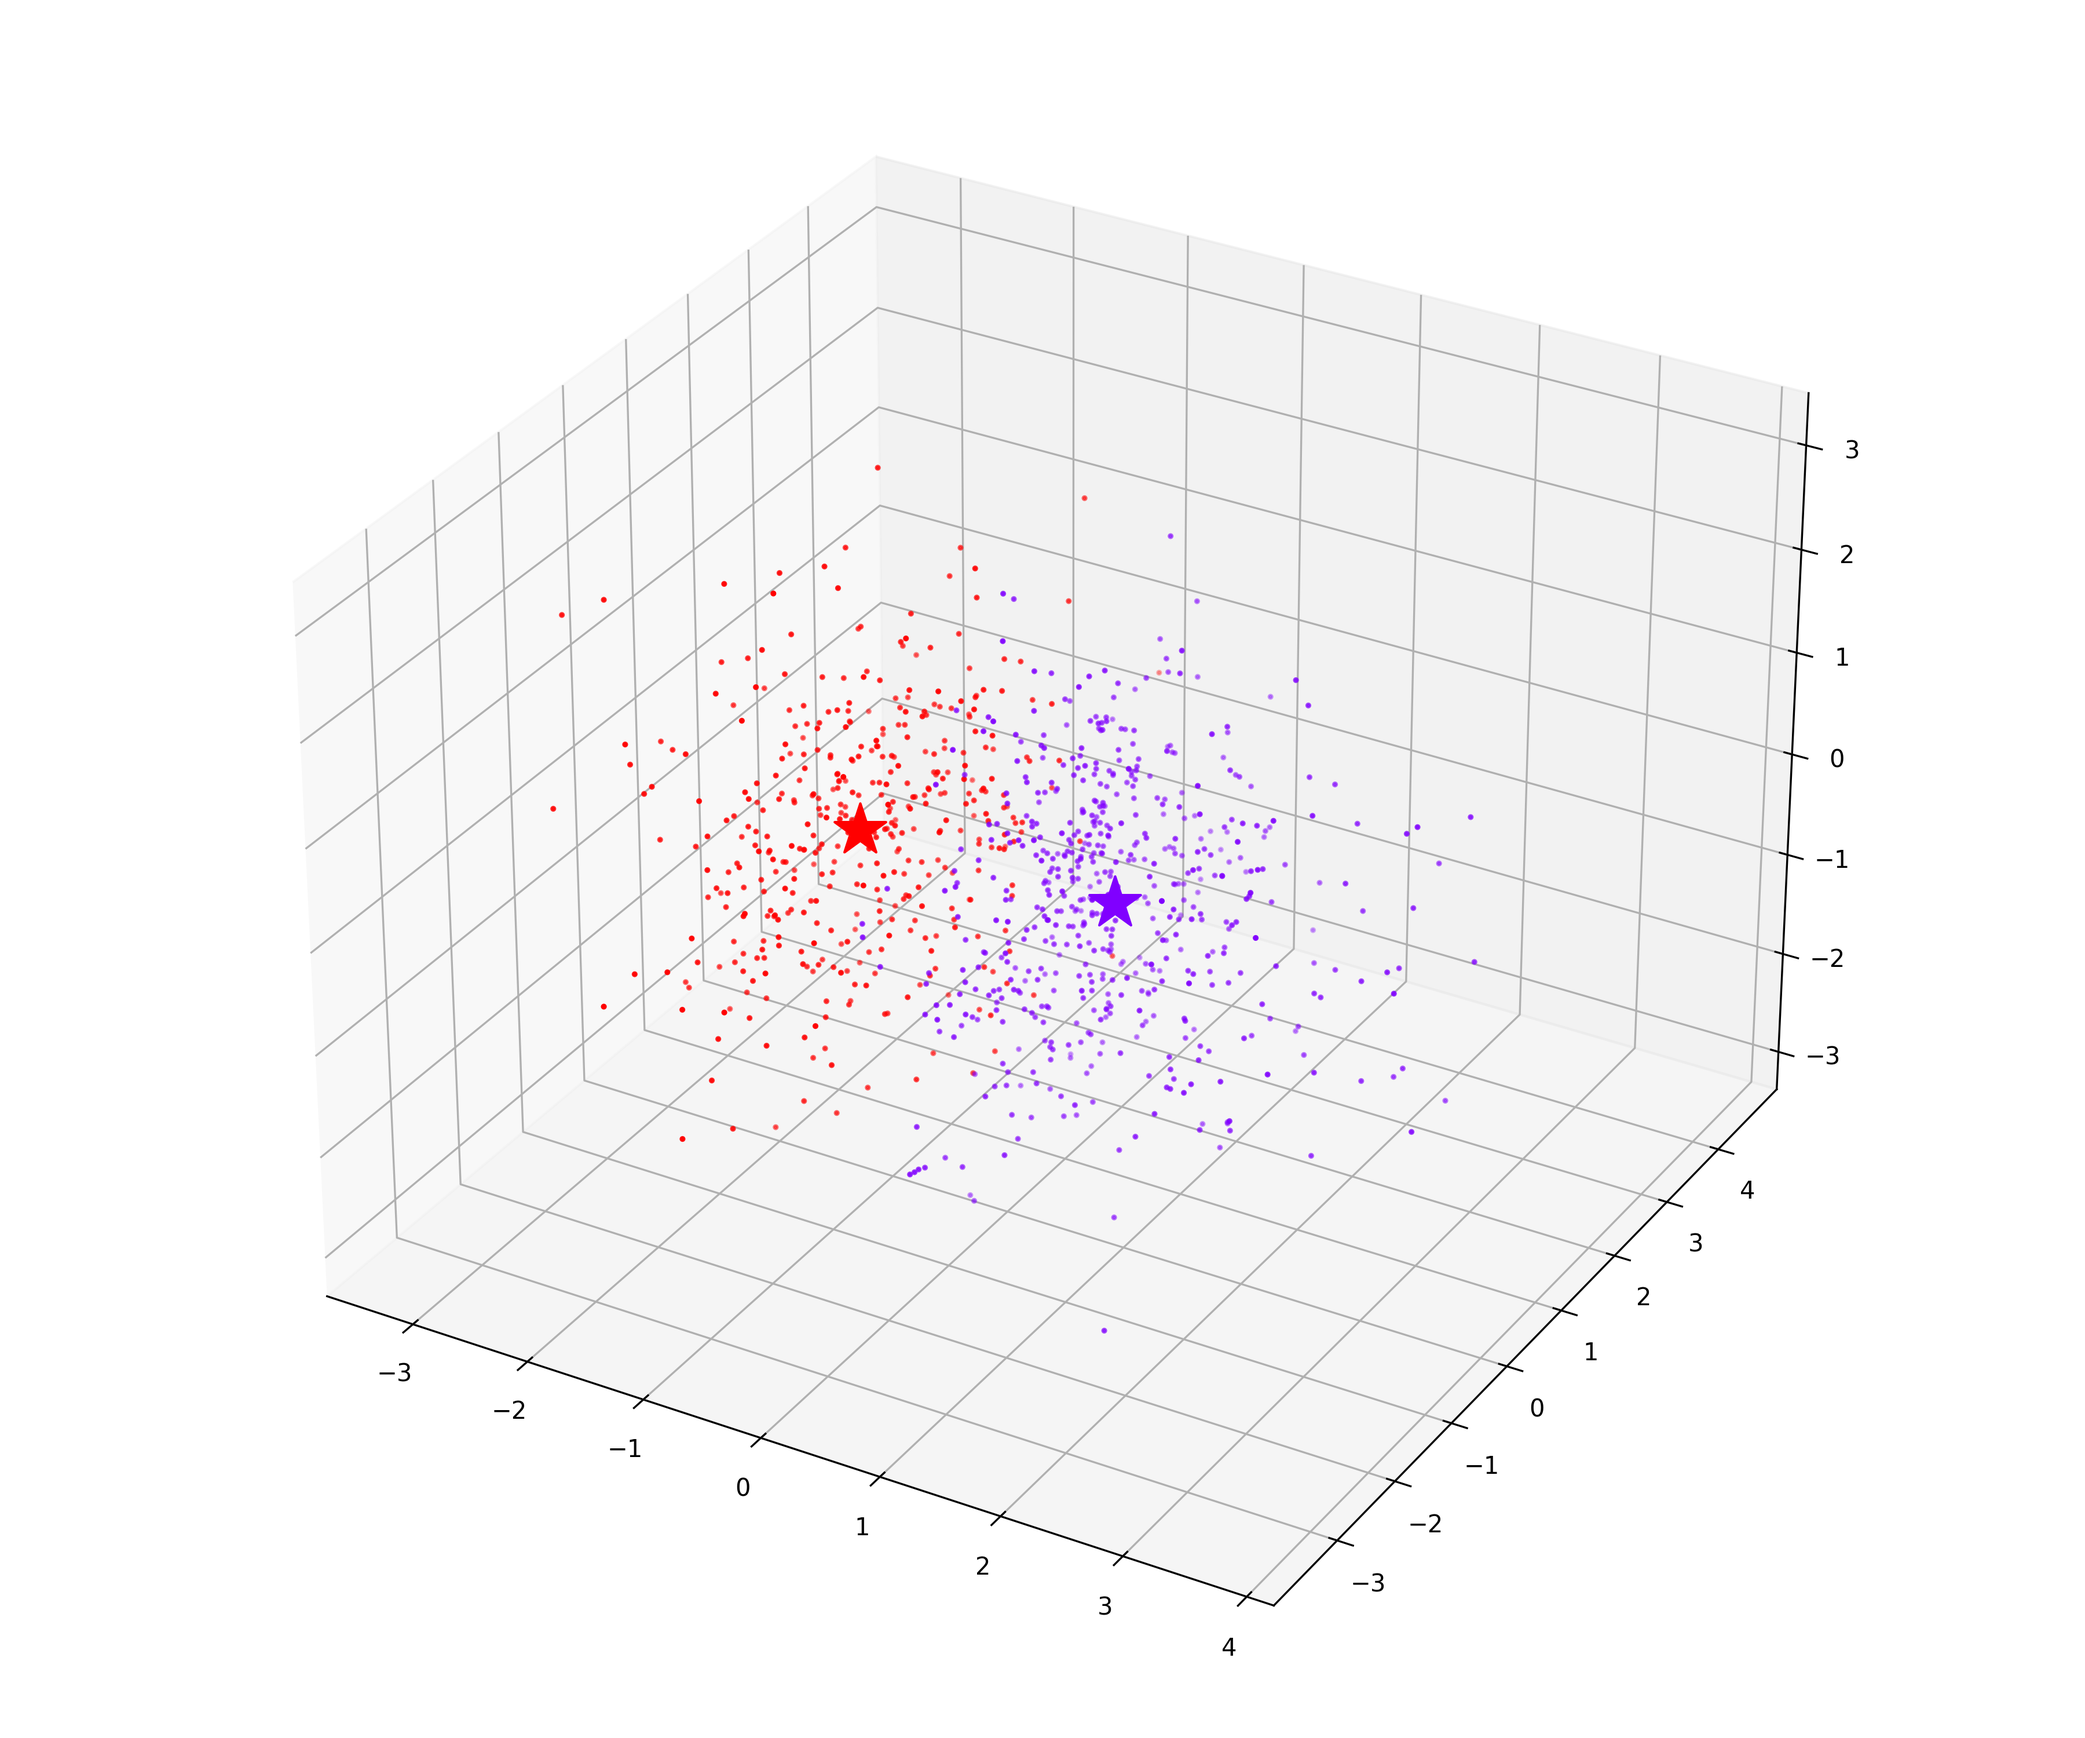
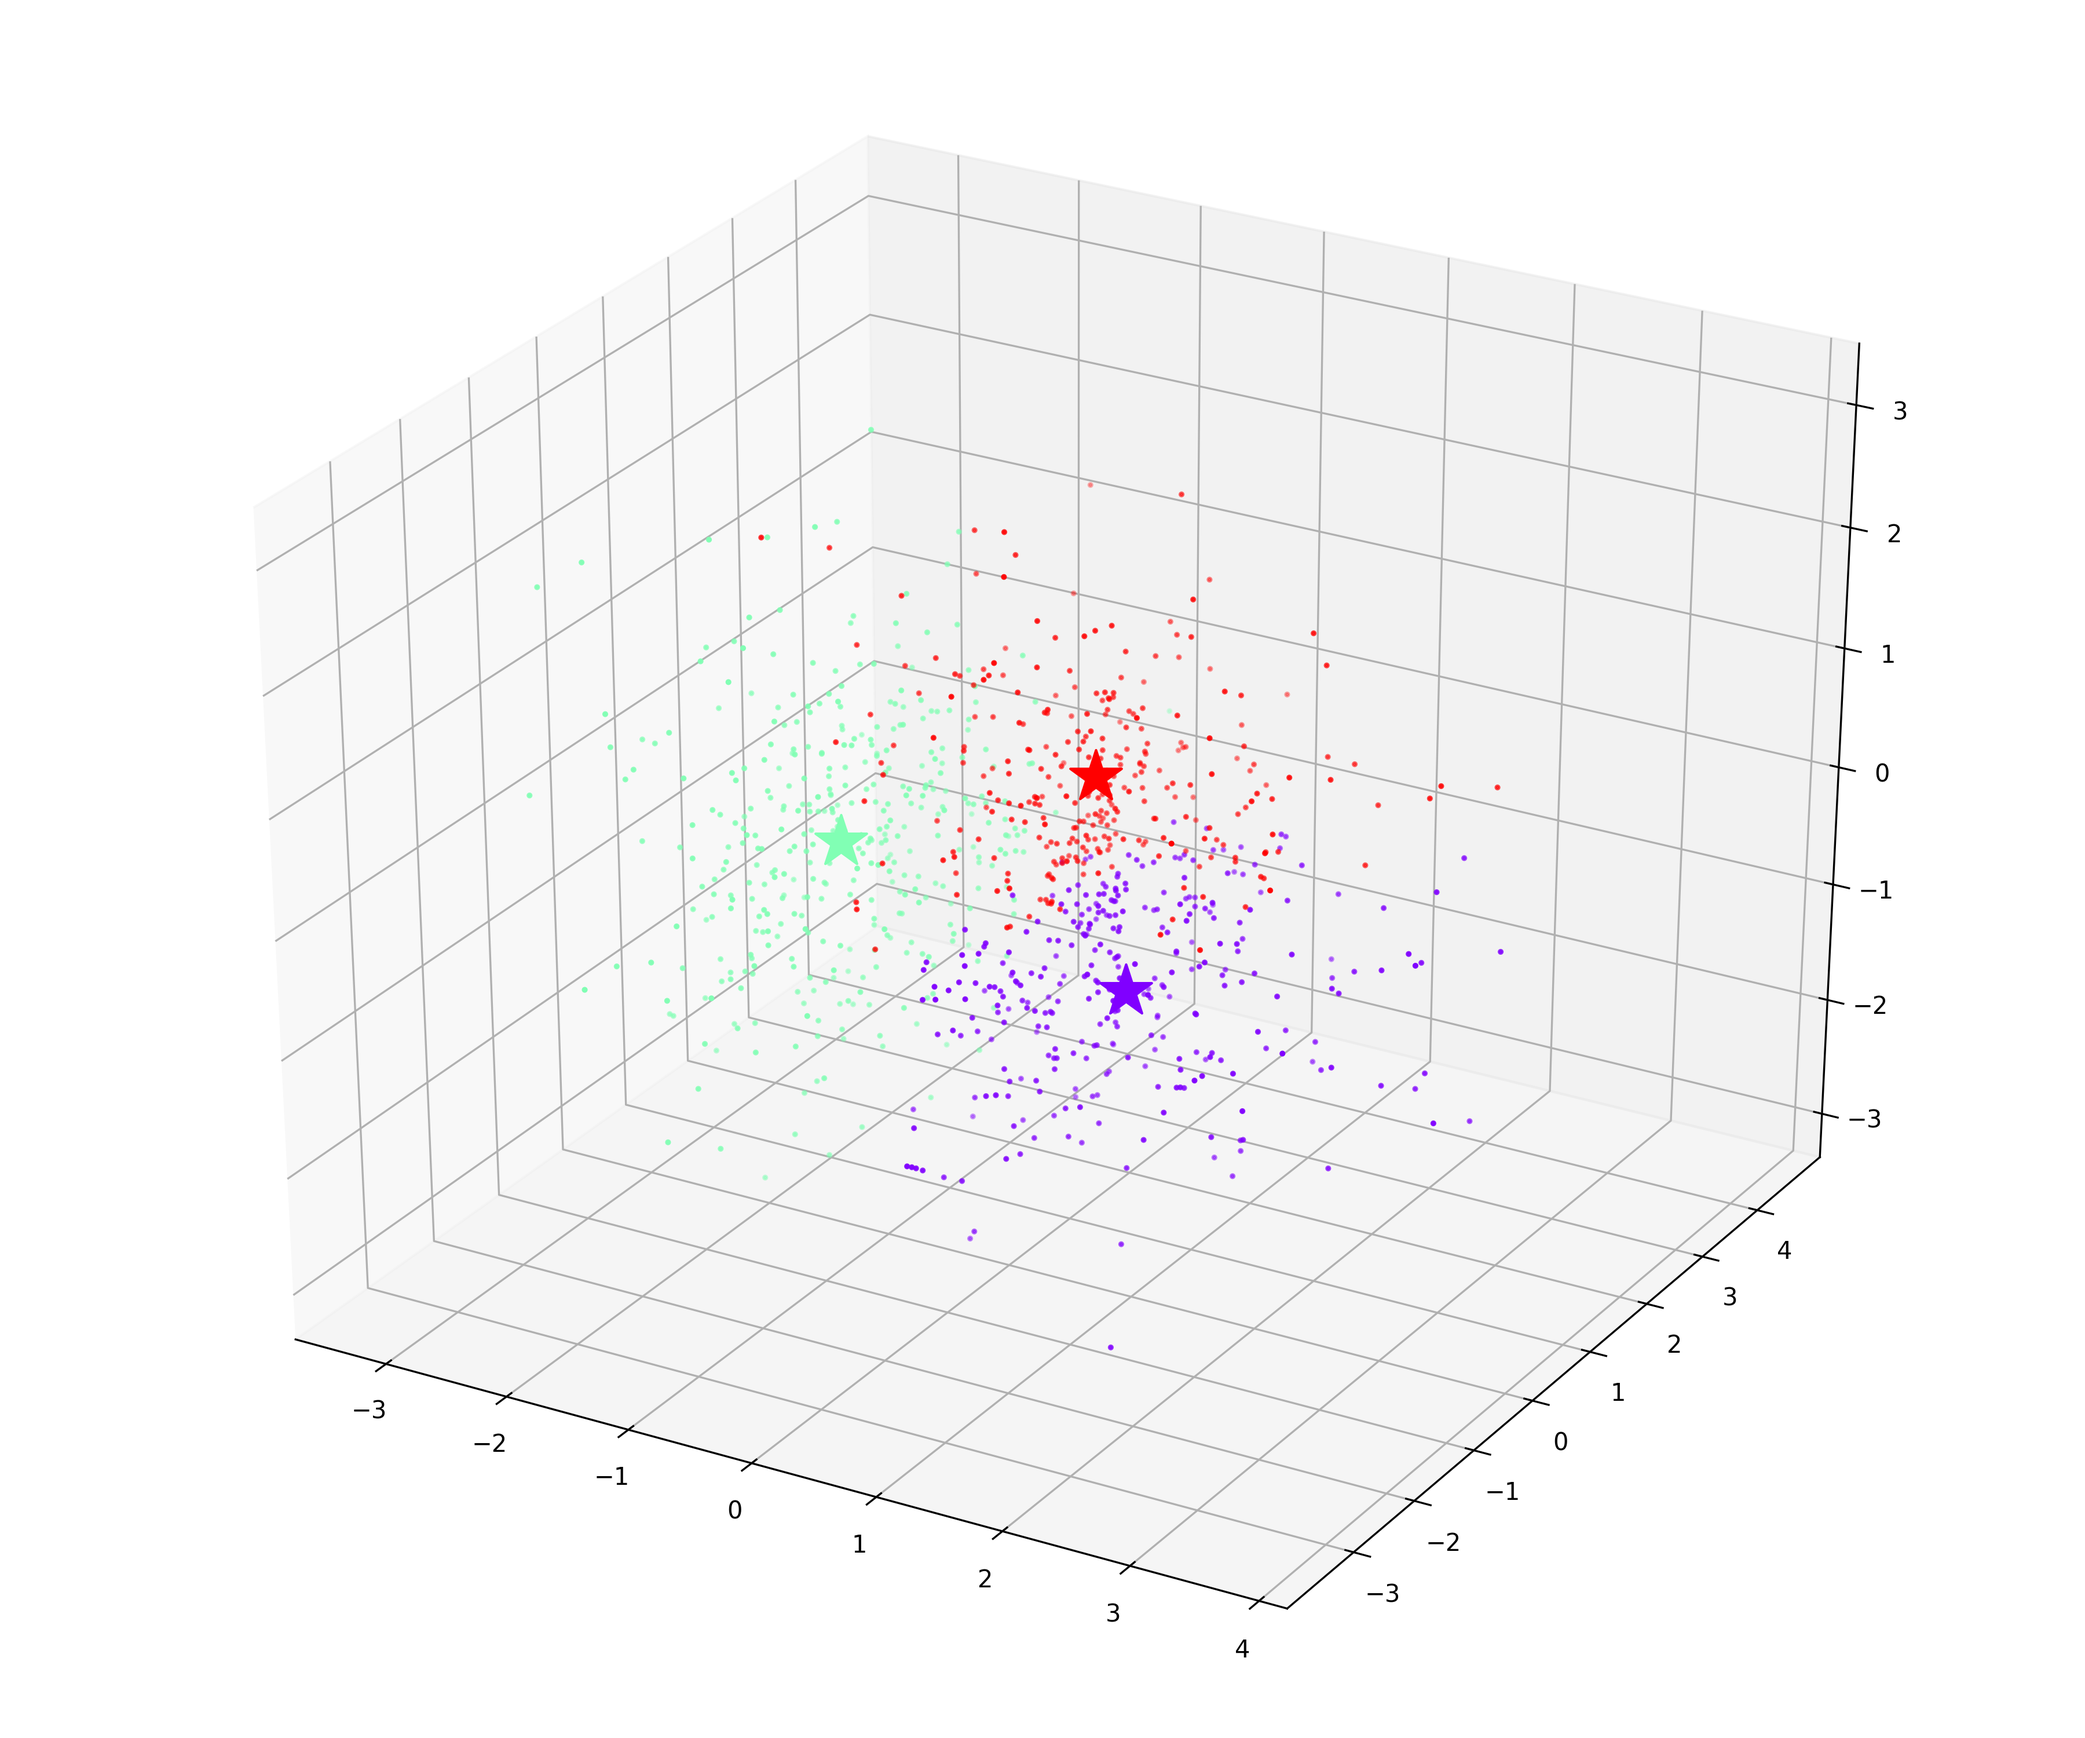
classification

diff --git a/src/classification.py b/src/classification.py
@@ -8,6 +8,9 @@ from sklearn.cluster import KMeans
 from sklearn.metrics import silhouette_score, silhouette_samples
 from sklearn.preprocessing import StandardScaler
 from sklearn.decomposition import PCA
+from sklearn.mixture import GaussianMixture
+from sklearn.mixture import BayesianGaussianMixture
+from matplotlib.colors import LogNorm
 from matplotlib.ticker import FixedLocator, FixedFormatter
 from matplotlib import cm
 
@@ -15,9 +18,9 @@ from matplotlib import cm
 def readData():
     csv_path = os.path.join(os.getcwd(), "data/input_train.csv")
     data = pd.read_csv(csv_path, header=None)
-    data = data[:1000]
-    print(data.info())
-    print(data.describe())
+    # data = data[:1000]
+    # print(data.info())
+    # print(data.describe())
 
     # sns.pairplot(data, diag_kind="kde", palette="bright")
     # pd.plotting.scatter_matrix(data, figsize=(8, 8))
@@ -48,20 +51,20 @@ def analyzeCluster(data, n_clusters):
 
     plt.figure(figsize=(10, 8))
 
-    for k in range(2, n_clusters):
-        ax = plt.subplot(3, 3, k - 1)
+    for k_ in range(2, n_clusters):
+        ax = plt.subplot(3, 3, k_ - 1)
         ax.set_xlim(0, 1)
 
-        y_pred = kmeans_per_k[k - 1].labels_
-        silhouette_coefficients = silhouette_samples(data, y_pred)
+        y_pred_ = kmeans_per_k[k_ - 1].labels_
+        silhouette_coefficients = silhouette_samples(data, y_pred_)
 
         padding = len(data) // 30
         pos = padding
         ticks = []
-        for i in range(k):
-            coeffs = silhouette_coefficients[y_pred == i]
+        for i in range(k_):
+            coeffs = silhouette_coefficients[y_pred_ == i]
             coeffs.sort()
-            color = cm.Spectral(i / k)
+            color = cm.Spectral(i / k_)
             plt.fill_betweenx(
                 np.arange(pos, pos + len(coeffs)),
                 0,
@@ -74,15 +77,15 @@ def analyzeCluster(data, n_clusters):
             pos += len(coeffs) + padding
 
         plt.gca().yaxis.set_major_locator(FixedLocator(ticks))
-        plt.gca().yaxis.set_major_formatter(FixedFormatter(range(k)))
-        if k in (3, 6, 9):
+        plt.gca().yaxis.set_major_formatter(FixedFormatter(range(k_)))
+        if k_ in (3, 6, 9):
             plt.ylabel("Cluster")
-        if k in (9, 10, 11):
+        if k_ in (9, 10, 11):
             plt.xlabel("Silhouette Coefficient")
         # plt.gca().set_xticks([-0.2, 0, 0.4, 0.8, 1.2])
         # plt.tick_params(labelbottom=False)
-        plt.axvline(x=silhouette_scores[k - 2], color="red", linestyle="--")
-        plt.title("$k={}$".format(k), fontsize=14)
+        plt.axvline(x=silhouette_scores[k_ - 2], color="red", linestyle="--")
+        plt.title("$k={}$".format(k_), fontsize=14)
         plt.tight_layout()
 
     plt.savefig("images/silhouette1.png", format="png", dpi=300)
@@ -99,7 +102,53 @@ def plot3D(_x, y, center, n_clusters=7):
         ax.scatter(center[_k, 0], center[_k, 1], center[_k, 2], marker="*", s=500, color=colors[_k])
     plt.tight_layout()
     plt.savefig("images/scatter3d.png", format="png", dpi=300)
+    # plt.show()
+
+
+def runGaussianMixture(X):
+    gms_per_k = [
+        GaussianMixture(n_components=k, n_init=10, random_state=42).fit(X) for k in range(1, 11)
+    ]
+
+    bics = [model.bic(X) for model in gms_per_k]
+    aics = [model.aic(X) for model in gms_per_k]
+
+    plt.figure(figsize=(8, 3))
+    plt.plot(range(1, 11), bics, "bo-", label="BIC")
+    plt.plot(range(1, 11), aics, "go--", label="AIC")
+    plt.xlabel("$k$", fontsize=14)
+    plt.ylabel("Information Criterion", fontsize=14)
+    plt.axis([1, 9.5, np.min(aics) - 50, np.max(aics) + 50])
+    plt.annotate(
+        "Minimum",
+        xy=(4, bics[3]),
+        xytext=(0.35, 0.6),
+        textcoords="figure fraction",
+        fontsize=14,
+        arrowprops=dict(facecolor="black", shrink=0.1),
+    )
+    plt.legend()
+    plt.savefig("./images/aic_bic_vs_k_plot.png", format="png", dpi=300)
     plt.show()
+
+
+def runVariationalBayesianGaussian(X):
+    bgm = BayesianGaussianMixture(
+        n_components=12,
+        n_init=2,
+        max_iter=10000,
+        init_params="kmeans",
+        weight_concentration_prior=0.01,
+        verbose=False,
+        random_state=42,
+    )
+    bgm.fit(X)
+    print(bgm.weights_)
+    print(np.round(bgm.weights_, 2))
+    # print(bgm.means_)
+    # print(bgm.covariances_)
+    print(bgm.converged_)
+    print(bgm.n_iter_)
 
 
 if __name__ == "__main__":
@@ -111,13 +160,26 @@ if __name__ == "__main__":
     pca = PCA(n_components=0.7)
     X_reduced = pca.fit_transform(X_norm)
     X_recoverd = pca.inverse_transform(X_reduced)
-    print(np.cumsum(pca.explained_variance_ratio_))
+    # print(np.cumsum(pca.explained_variance_ratio_))
 
-    analyzeCluster(X_reduced, n_clusters=10)
+    # analyzeCluster(X_reduced, n_clusters=10)
+    runGaussianMixture(X_norm)
+    runVariationalBayesianGaussian(X_norm)
 
-    k = 2
-    kmeans = KMeans(n_clusters=k, random_state=42).fit(X_reduced)
-    y_pred = kmeans.predict(X_reduced)
-    print(kmeans.cluster_centers_)
+    # kmeans = KMeans(n_clusters=3, random_state=42).fit(X_reduced)
+    # y_pred = kmeans.predict(X_reduced)
+    # print(kmeans.cluster_centers_)
 
-    plot3D(X_reduced, y_pred, kmeans.cluster_centers_, n_clusters=k)
+    # gm = GaussianMixture(n_components=3, n_init=30, random_state=42)
+    # gm.fit(X)
+
+    # print(gm.means_)
+    # print(gm.weights_)
+    # print(gm.covariances_)
+    # print(gm.converged_)
+    # print(gm.n_iter_)
+    # print(gm.predict(X))
+    # score = gm.score_samples(X)
+    # print(score)
+
+    # plot3D(X_reduced, y_pred, kmeans.cluster_centers_, n_clusters=3)
